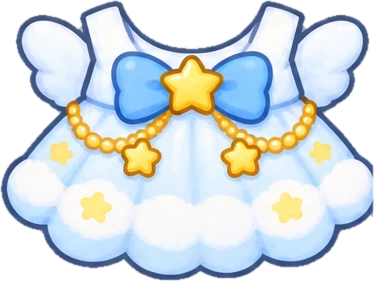
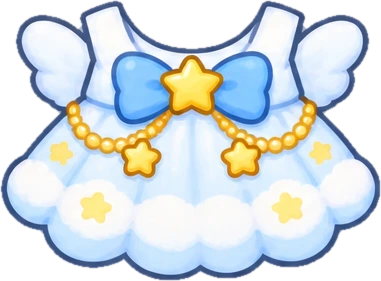
Recut angel dress (right edge was cropped)
Claude-Session: https://claude.ai/code/session_01R3m8MAFkhgnU4D5f6BKp5W

diff --git a/index.html b/index.html
@@ -752,7 +752,7 @@ var FOODS = {
 var SHOP = [];
 /* 이미지로 만든 아이템: {id,name,slot,tier,cost,file:'assets/items/id.webp',box:[x,y,w,h]} 를 여기에 추가하면
    뽑기·꾸미기·도감에 자동으로 들어가요. box는 캔버스(640x520) 좌표, vb는 box 와 같아요. */
-var IMG_ITEMS = [{"id": "ribbon", "name": "빨간 리본", "slot": "side", "tier": 0, "cost": 8, "file": "assets/items/ribbon.webp", "box": [374.5, 56.1, 125, 71.7]}, {"id": "flower", "name": "꽃 핀", "slot": "side", "tier": 0, "cost": 12, "file": "assets/items/flower.webp", "box": [152.5, 43.1, 105, 97.7]}, {"id": "sprout", "name": "새싹 핀", "slot": "side", "tier": 0, "cost": 8, "file": "assets/items/sprout.webp", "box": [382.0, 53.3, 110, 77.5]}, {"id": "heart", "name": "하트 핀", "slot": "side", "tier": 0, "cost": 10, "file": "assets/items/heart.webp", "box": [383.0, 46.8, 108, 90.4]}, {"id": "star", "name": "별 핀", "slot": "side", "tier": 0, "cost": 10, "file": "assets/items/star.webp", "box": [383.0, 37.5, 108, 108.9]}, {"id": "cloudbow", "name": "구름 무지개 핀", "slot": "side", "tier": 0, "cost": 12, "file": "assets/items/cloudbow.webp", "box": [377.0, 51.8, 120, 80.5]}, {"id": "cherry", "name": "체리 핀", "slot": "side", "tier": 0, "cost": 12, "file": "assets/items/cherry.webp", "box": [387.0, 42.4, 100, 99.2]}, {"id": "glasses", "name": "동그란 안경", "slot": "face", "tier": 1, "cost": 15, "file": "assets/items/glasses.webp", "box": [143.5, 166.3, 355, 147.4]}, {"id": "scarf", "name": "따뜻한 목도리", "slot": "neck", "tier": 1, "cost": 20, "file": "assets/items/scarf.webp", "box": [179.5, 318.9, 285, 178.3]}, {"id": "hat", "name": "파티 모자", "slot": "head", "tier": 1, "cost": 25, "file": "assets/items/hat.webp", "box": [250.0, -80.1, 140, 168.1]}, {"id": "wingpin", "name": "날개 핀", "slot": "side", "tier": 1, "cost": 18, "file": "assets/items/wingpin.webp", "box": [379.5, 46.4, 115, 91.1]}, {"id": "purplebow", "name": "보라 리본 핀", "slot": "side", "tier": 1, "cost": 15, "file": "assets/items/purplebow.webp", "box": [377.0, 50.1, 120, 83.8]}, {"id": "lacebow", "name": "레이스 리본 핀", "slot": "side", "tier": 1, "cost": 18, "file": "assets/items/lacebow.webp", "box": [379.5, 38.0, 115, 108.1]}, {"id": "snow", "name": "눈꽃 핀", "slot": "side", "tier": 1, "cost": 20, "file": "assets/items/snow.webp", "box": [387.0, 48.3, 100, 87.4]}, {"id": "moon", "name": "달별 핀", "slot": "side", "tier": 1, "cost": 22, "file": "assets/items/moon.webp", "box": [382.0, 39.7, 110, 104.6]}, {"id": "crown", "name": "반짝 왕관", "slot": "head", "tier": 2, "cost": 0, "file": "assets/items/crown.webp", "box": [230.0, -37.8, 180, 127.8]}, {"id": "wizard", "name": "별 마법사 모자", "slot": "head", "tier": 2, "cost": 0, "file": "assets/items/wizard.webp", "box": [177.0, -77.3, 290, 189.3]}, {"id": "starwing", "name": "별무지개 날개 머리띠", "slot": "head", "tier": 2, "cost": 0, "file": "assets/items/starwing.webp", "box": [165.0, 28.9, 310, 134.2]}, {"id": "nightcap", "name": "꿀잠 모자", "slot": "head", "tier": 2, "cost": 0, "file": "assets/items/nightcap.webp", "box": [192.0, 9.8, 260, 180.4]}, {"id": "maid", "name": "프릴 리본 머리띠", "slot": "head", "tier": 2, "cost": 0, "file": "assets/items/maid.webp", "box": [190.0, 19.6, 260, 156.9]}, {"id": "angel", "name": "천사 날개 후광", "slot": "head", "tier": 3, "cost": 0, "file": "assets/items/angel.webp", "box": [150.0, 6.4, 340, 177.1]}, {"id": "bat", "name": "박쥐 날개", "slot": "head", "tier": 3, "cost": 0, "file": "assets/items/bat.webp", "box": [165.0, 48.5, 310, 127.1]}, {"id": "wreath", "name": "꽃 화관", "slot": "head", "tier": 3, "cost": 0, "file": "assets/items/wreath.webp", "box": [180.0, 19.0, 280, 162.0]}, {"id": "tiara", "name": "날개 티아라", "slot": "head", "tier": 3, "cost": 0, "file": "assets/items/tiara.webp", "box": [195.0, 18.6, 250, 146.9]}, {"id": "galaxy", "name": "은하수 머리띠", "slot": "head", "tier": 3, "cost": 0, "file": "assets/items/galaxy.webp", "box": [160.0, 23.2, 320, 161.5]}, {"id": "broom", "name": "빗자루", "slot": "hand", "tier": 0, "cost": 14, "file": "assets/items/broom.webp", "box": [401.6, 283, 100.8, 230]}, {"id": "drink", "name": "음료수", "slot": "hand", "tier": 0, "cost": 10, "file": "assets/items/drink.webp", "box": [136.2, 332, 97.6, 162]}, {"id": "schoolbag", "name": "학교가방", "slot": "hand", "tier": 0, "cost": 16, "file": "assets/items/schoolbag.webp", "box": [383.0, 392, 133.0, 140]}, {"id": "slime", "name": "슬라임", "slot": "hand", "tier": 1, "cost": 18, "file": "assets/items/slime.webp", "box": [108.0, 331.1, 154, 116.8]}, {"id": "gameboy", "name": "휴대용 게임기", "slot": "hand", "tier": 1, "cost": 24, "file": "assets/items/gameboy.webp", "box": [222.0, 359.4, 195, 109.1]}, {"id": "bananadoll", "name": "바나나 애착인형", "slot": "hand", "tier": 2, "cost": 0, "file": "assets/items/bananadoll.webp", "box": [105.0, 303.6, 150, 176.4]}, {"id": "elephantdoll", "name": "코끼리 애착인형", "slot": "hand", "tier": 2, "cost": 0, "file": "assets/items/elephantdoll.webp", "box": [385.0, 321.0, 160, 148.7]}, {"id": "tshirt", "name": "줄무늬 티셔츠", "slot": "outfit", "tier": 0, "cost": 14, "file": "assets/items/tshirt.webp", "box": [200.0, 328, 240, 131.0]}, {"id": "overalls", "name": "멜빵바지", "slot": "outfit", "tier": 0, "cost": 16, "file": "assets/items/overalls.webp", "box": [200.0, 328, 240, 177.4]}, {"id": "dress", "name": "분홍 원피스", "slot": "outfit", "tier": 1, "cost": 26, "file": "assets/items/dress.webp", "box": [200.0, 328, 240, 131.7]}, {"id": "hanbok", "name": "한복", "slot": "outfit", "tier": 1, "cost": 30, "file": "assets/items/hanbok.webp", "box": [200.0, 328, 240, 139.9]}, {"id": "uniform", "name": "세일러 교복", "slot": "outfit", "tier": 1, "cost": 28, "file": "assets/items/uniform.webp", "box": [200.0, 328, 240, 146.9]}, {"id": "cape", "name": "별빛 마법 망토", "slot": "outfit", "tier": 2, "cost": 0, "file": "assets/items/cape.webp", "box": [200.0, 365, 240, 138.0]}, {"id": "princess", "name": "공주 드레스", "slot": "outfit", "tier": 2, "cost": 0, "file": "assets/items/princess.webp", "box": [200.0, 328, 240, 157.7]}, {"id": "spacesuit", "name": "우주복", "slot": "outfit", "tier": 3, "cost": 0, "file": "assets/items/spacesuit.webp", "box": [200.0, 328, 240, 121.6]}, {"id": "heartphones", "name": "하트 헤드폰", "slot": "head", "tier": 1, "cost": 22, "file": "assets/items/heartphones.webp", "box": [82, -12, 476, 273.0]}, {"id": "nursehat", "name": "간호사 모자", "slot": "head", "tier": 0, "cost": 14, "file": "assets/items/nursehat.webp", "box": [215, 14, 210, 102.6]}, {"id": "nursedress", "name": "간호사복", "slot": "outfit", "tier": 1, "cost": 28, "file": "assets/items/nursedress.webp", "box": [180.0, 318, 280, 206.6]}, {"id": "pancake", "name": "팬케이크", "slot": "hand", "tier": 1, "cost": 18, "file": "assets/items/pancake.webp", "box": [110, 335, 150, 121.7]}, {"id": "chocochip", "name": "초코칩", "slot": "hand", "tier": 0, "cost": 12, "file": "assets/items/chocochip.webp", "box": [130, 340, 100, 101.5]}, {"id": "elephantwings", "name": "코끼리 날개", "slot": "back", "tier": 1, "cost": 32, "file": "assets/items/elephantwings.webp", "box": [-30.0, 205, 700, 321.4]}, {"id": "angelwings", "name": "천사 날개", "slot": "back", "tier": 1, "cost": 34, "file": "assets/items/angelwings.webp", "box": [-30.0, 205, 700, 269.5]}, {"id": "demonwings", "name": "악마 날개", "slot": "back", "tier": 1, "cost": 34, "file": "assets/items/demonwings.webp", "box": [-30.0, 205, 700, 300.2]}, {"id": "rainbowwings", "name": "무지개 날개", "slot": "back", "tier": 2, "cost": 0, "file": "assets/items/rainbowwings.webp", "box": [-30.0, 205, 700, 312.6]}, {"id": "butterflywings", "name": "나비 날개", "slot": "back", "tier": 0, "cost": 24, "file": "assets/items/butterflywings.webp", "box": [-30.0, 205, 700, 313.3]}, {"id": "fairywings", "name": "요정 날개", "slot": "back", "tier": 1, "cost": 30, "file": "assets/items/fairywings.webp", "box": [-30.0, 205, 700, 358.8]}, {"id": "crystalwings", "name": "크리스탈 날개", "slot": "back", "tier": 2, "cost": 0, "file": "assets/items/crystalwings.webp", "box": [-30.0, 205, 700, 354.4]}, {"id": "starwings", "name": "별빛 날개", "slot": "back", "tier": 2, "cost": 0, "file": "assets/items/starwings.webp", "box": [-30.0, 205, 700, 348.6]}, {"id": "naturewings", "name": "자연 날개", "slot": "back", "tier": 1, "cost": 30, "file": "assets/items/naturewings.webp", "box": [-30.0, 205, 700, 350.8]}, {"id": "nheart", "name": "하트 멜빵 반바지", "slot": "outfit", "tier": 0, "cost": 16, "file": "assets/items/nheart.webp", "box": [180.0, 318, 280, 210.6]}, {"id": "nribbon", "name": "분홍 리본 원피스", "slot": "outfit", "tier": 1, "cost": 26, "file": "assets/items/nribbon.webp", "box": [180.0, 318, 280, 192.7]}, {"id": "ndaisy", "name": "노랑 데이지 원피스", "slot": "outfit", "tier": 1, "cost": 28, "file": "assets/items/ndaisy.webp", "box": [180.0, 318, 280, 200.4]}, {"id": "nstrawb", "name": "딸기 레이스 원피스", "slot": "outfit", "tier": 1, "cost": 28, "file": "assets/items/nstrawb.webp", "box": [180.0, 318, 280, 188.6]}, {"id": "nsailor", "name": "곰돌이 세일러복", "slot": "outfit", "tier": 0, "cost": 18, "file": "assets/items/nsailor.webp", "box": [180.0, 318, 280, 205.2]}, {"id": "nbeartan", "name": "갈색 리본 곰돌이옷", "slot": "outfit", "tier": 1, "cost": 26, "file": "assets/items/nbeartan.webp", "box": [180.0, 318, 280, 209.0]}, {"id": "nrose", "name": "장미 꽃무늬 원피스", "slot": "outfit", "tier": 1, "cost": 26, "file": "assets/items/nrose.webp", "box": [180.0, 318, 280, 195.0]}, {"id": "nbearblue", "name": "곰돌이 파랑 멜빵", "slot": "outfit", "tier": 0, "cost": 18, "file": "assets/items/nbearblue.webp", "box": [180.0, 318, 280, 209.6]}, {"id": "nstar", "name": "별빛 망토", "slot": "outfit", "tier": 2, "cost": 0, "file": "assets/items/nstar.webp", "box": [180.0, 318, 280, 204.7]}, {"id": "nsnow", "name": "눈꽃 망토", "slot": "outfit", "tier": 2, "cost": 0, "file": "assets/items/nsnow.webp", "box": [180.0, 318, 280, 193.8]}, {"id": "nprince", "name": "왕자님 정복", "slot": "outfit", "tier": 2, "cost": 0, "file": "assets/items/nprince.webp", "box": [180.0, 318, 280, 211.5]}, {"id": "nbat", "name": "박쥐 망토", "slot": "outfit", "tier": 3, "cost": 0, "file": "assets/items/nbat.webp", "box": [180.0, 318, 280, 207.8]}, {"id": "mpink", "name": "핑크 하트 멜빵", "slot": "outfit", "tier": 0, "cost": 16, "file": "assets/items/mpink.webp", "box": [180.0, 318, 280, 226.8]}, {"id": "myellow", "name": "노랑 데이지 리본 원피스", "slot": "outfit", "tier": 1, "cost": 26, "file": "assets/items/myellow.webp", "box": [180.0, 318, 280, 197.4]}, {"id": "manchor", "name": "닻 세일러 원피스", "slot": "outfit", "tier": 0, "cost": 18, "file": "assets/items/manchor.webp", "box": [180.0, 318, 280, 206.7]}, {"id": "mstrawchk", "name": "딸기 체크 원피스", "slot": "outfit", "tier": 1, "cost": 28, "file": "assets/items/mstrawchk.webp", "box": [180.0, 318, 280, 196.1]}, {"id": "mdenim", "name": "별 청멜빵 반바지", "slot": "outfit", "tier": 0, "cost": 16, "file": "assets/items/mdenim.webp", "box": [180.0, 318, 280, 213.6]}, {"id": "mlavender", "name": "라벤더 프릴 원피스", "slot": "outfit", "tier": 1, "cost": 28, "file": "assets/items/mlavender.webp", "box": [180.0, 318, 280, 197.1]}, {"id": "mbearcream", "name": "곰돌이 크림 멜빵", "slot": "outfit", "tier": 1, "cost": 26, "file": "assets/items/mbearcream.webp", "box": [180.0, 318, 280, 215.8]}, {"id": "mmint", "name": "민트 클로버 원피스", "slot": "outfit", "tier": 1, "cost": 26, "file": "assets/items/mmint.webp", "box": [180.0, 318, 280, 202.9]}, {"id": "mcloud", "name": "구름 리본 원피스", "slot": "outfit", "tier": 1, "cost": 26, "file": "assets/items/mcloud.webp", "box": [180.0, 318, 280, 205.4]}, {"id": "mbee", "name": "꿀벌 멜빵", "slot": "outfit", "tier": 2, "cost": 0, "file": "assets/items/mbee.webp", "box": [180.0, 318, 280, 232.5]}, {"id": "mpearl", "name": "진주 하트 원피스", "slot": "outfit", "tier": 2, "cost": 0, "file": "assets/items/mpearl.webp", "box": [160.0, 318, 280, 214.0]}, {"id": "mnavy", "name": "달별 네이비 정복", "slot": "outfit", "tier": 3, "cost": 0, "file": "assets/items/mnavy.webp", "box": [180.0, 318, 280, 211.5]}, {"id": "psakura", "name": "벚꽃 원피스", "slot": "outfit", "tier": 1, "cost": 26, "file": "assets/items/psakura.webp", "box": [180.0, 328, 280, 217.5]}, {"id": "palice", "name": "앨리스 원피스", "slot": "outfit", "tier": 2, "cost": 0, "file": "assets/items/palice.webp", "box": [180.0, 328, 280, 222.2]}, {"id": "ppicnic", "name": "체크 피크닉 원피스", "slot": "outfit", "tier": 1, "cost": 28, "file": "assets/items/ppicnic.webp", "box": [180.0, 328, 280, 222.3]}, {"id": "pballet", "name": "발레코어 원피스", "slot": "outfit", "tier": 1, "cost": 28, "file": "assets/items/pballet.webp", "box": [180.0, 328, 280, 206.8]}, {"id": "pangel", "name": "천사 원피스", "slot": "outfit", "tier": 2, "cost": 0, "file": "assets/items/pangel.webp", "box": [180.0, 328, 280, 210.4]}, {"id": "pwedding", "name": "웨딩 드레스", "slot": "outfit", "tier": 3, "cost": 0, "file": "assets/items/pwedding.webp", "box": [180.0, 328, 280, 215.6]}, {"id": "pbee", "name": "꿀벌 원피스", "slot": "outfit", "tier": 1, "cost": 26, "file": "assets/items/pbee.webp", "box": [180.0, 328, 280, 236.0]}, {"id": "pfrog", "name": "개구리 멜빵", "slot": "outfit", "tier": 0, "cost": 18, "file": "assets/items/pfrog.webp", "box": [180.0, 328, 280, 214.2]}, {"id": "pcherry", "name": "체리 원피스", "slot": "outfit", "tier": 1, "cost": 28, "file": "assets/items/pcherry.webp", "box": [180.0, 328, 280, 228.3]}, {"id": "pcloudstar", "name": "구름별 원피스", "slot": "outfit", "tier": 2, "cost": 0, "file": "assets/items/pcloudstar.webp", "box": [180.0, 328, 280, 234.1]}, {"id": "pgoth", "name": "고딕 로리타", "slot": "outfit", "tier": 2, "cost": 0, "file": "assets/items/pgoth.webp", "box": [180.0, 328, 280, 230.8]}, {"id": "pxmas", "name": "크리스마스 원피스", "slot": "outfit", "tier": 3, "cost": 0, "file": "assets/items/pxmas.webp", "box": [180.0, 328, 280, 219.7]}, {"id": "kblackdress", "name": "검정 칼라 원피스", "slot": "outfit", "tier": 1, "cost": 26, "file": "assets/items/kblackdress.webp", "box": [160.0, 318, 280, 160.0]}, {"id": "kplaid", "name": "회색 체크 원피스", "slot": "outfit", "tier": 1, "cost": 28, "file": "assets/items/kplaid.webp", "box": [160.0, 318, 280, 171.7]}, {"id": "kapple", "name": "사과 빨강 원피스", "slot": "outfit", "tier": 1, "cost": 28, "file": "assets/items/kapple.webp", "box": [160.0, 318, 280, 173.8]}, {"id": "kwhite", "name": "흰 레이스 원피스", "slot": "outfit", "tier": 1, "cost": 26, "file": "assets/items/kwhite.webp", "box": [160.0, 318, 280, 177.1]}, {"id": "kgreen", "name": "그린 멜빵 원피스", "slot": "outfit", "tier": 1, "cost": 26, "file": "assets/items/kgreen.webp", "box": [160.0, 318, 280, 178.8]}, {"id": "kberet", "name": "빨간 베레모", "slot": "head", "tier": 1, "cost": 24, "file": "assets/items/kberet.webp", "box": [215, 8, 180, 103.0]}, {"id": "kblackbow", "name": "검정 리본", "slot": "head", "tier": 0, "cost": 12, "file": "assets/items/kblackbow.webp", "box": [335, 18, 95, 68.1]}, {"id": "kwhitebow", "name": "흰 리본", "slot": "head", "tier": 0, "cost": 12, "file": "assets/items/kwhitebow.webp", "box": [335, 18, 95, 68.1]}, {"id": "kpolice", "name": "경찰복", "slot": "outfit", "tier": 1, "cost": 28, "file": "assets/items/kpolice.webp", "box": [160.0, 318, 280, 211.4]}, {"id": "kpolicehat", "name": "경찰모", "slot": "head", "tier": 1, "cost": 26, "file": "assets/items/kpolicehat.webp", "box": [240.0, 19.6, 160, 95.4]}];
+var IMG_ITEMS = [{"id": "ribbon", "name": "빨간 리본", "slot": "side", "tier": 0, "cost": 8, "file": "assets/items/ribbon.webp", "box": [374.5, 56.1, 125, 71.7]}, {"id": "flower", "name": "꽃 핀", "slot": "side", "tier": 0, "cost": 12, "file": "assets/items/flower.webp", "box": [152.5, 43.1, 105, 97.7]}, {"id": "sprout", "name": "새싹 핀", "slot": "side", "tier": 0, "cost": 8, "file": "assets/items/sprout.webp", "box": [382.0, 53.3, 110, 77.5]}, {"id": "heart", "name": "하트 핀", "slot": "side", "tier": 0, "cost": 10, "file": "assets/items/heart.webp", "box": [383.0, 46.8, 108, 90.4]}, {"id": "star", "name": "별 핀", "slot": "side", "tier": 0, "cost": 10, "file": "assets/items/star.webp", "box": [383.0, 37.5, 108, 108.9]}, {"id": "cloudbow", "name": "구름 무지개 핀", "slot": "side", "tier": 0, "cost": 12, "file": "assets/items/cloudbow.webp", "box": [377.0, 51.8, 120, 80.5]}, {"id": "cherry", "name": "체리 핀", "slot": "side", "tier": 0, "cost": 12, "file": "assets/items/cherry.webp", "box": [387.0, 42.4, 100, 99.2]}, {"id": "glasses", "name": "동그란 안경", "slot": "face", "tier": 1, "cost": 15, "file": "assets/items/glasses.webp", "box": [143.5, 166.3, 355, 147.4]}, {"id": "scarf", "name": "따뜻한 목도리", "slot": "neck", "tier": 1, "cost": 20, "file": "assets/items/scarf.webp", "box": [179.5, 318.9, 285, 178.3]}, {"id": "hat", "name": "파티 모자", "slot": "head", "tier": 1, "cost": 25, "file": "assets/items/hat.webp", "box": [250.0, -80.1, 140, 168.1]}, {"id": "wingpin", "name": "날개 핀", "slot": "side", "tier": 1, "cost": 18, "file": "assets/items/wingpin.webp", "box": [379.5, 46.4, 115, 91.1]}, {"id": "purplebow", "name": "보라 리본 핀", "slot": "side", "tier": 1, "cost": 15, "file": "assets/items/purplebow.webp", "box": [377.0, 50.1, 120, 83.8]}, {"id": "lacebow", "name": "레이스 리본 핀", "slot": "side", "tier": 1, "cost": 18, "file": "assets/items/lacebow.webp", "box": [379.5, 38.0, 115, 108.1]}, {"id": "snow", "name": "눈꽃 핀", "slot": "side", "tier": 1, "cost": 20, "file": "assets/items/snow.webp", "box": [387.0, 48.3, 100, 87.4]}, {"id": "moon", "name": "달별 핀", "slot": "side", "tier": 1, "cost": 22, "file": "assets/items/moon.webp", "box": [382.0, 39.7, 110, 104.6]}, {"id": "crown", "name": "반짝 왕관", "slot": "head", "tier": 2, "cost": 0, "file": "assets/items/crown.webp", "box": [230.0, -37.8, 180, 127.8]}, {"id": "wizard", "name": "별 마법사 모자", "slot": "head", "tier": 2, "cost": 0, "file": "assets/items/wizard.webp", "box": [177.0, -77.3, 290, 189.3]}, {"id": "starwing", "name": "별무지개 날개 머리띠", "slot": "head", "tier": 2, "cost": 0, "file": "assets/items/starwing.webp", "box": [165.0, 28.9, 310, 134.2]}, {"id": "nightcap", "name": "꿀잠 모자", "slot": "head", "tier": 2, "cost": 0, "file": "assets/items/nightcap.webp", "box": [192.0, 9.8, 260, 180.4]}, {"id": "maid", "name": "프릴 리본 머리띠", "slot": "head", "tier": 2, "cost": 0, "file": "assets/items/maid.webp", "box": [190.0, 19.6, 260, 156.9]}, {"id": "angel", "name": "천사 날개 후광", "slot": "head", "tier": 3, "cost": 0, "file": "assets/items/angel.webp", "box": [150.0, 6.4, 340, 177.1]}, {"id": "bat", "name": "박쥐 날개", "slot": "head", "tier": 3, "cost": 0, "file": "assets/items/bat.webp", "box": [165.0, 48.5, 310, 127.1]}, {"id": "wreath", "name": "꽃 화관", "slot": "head", "tier": 3, "cost": 0, "file": "assets/items/wreath.webp", "box": [180.0, 19.0, 280, 162.0]}, {"id": "tiara", "name": "날개 티아라", "slot": "head", "tier": 3, "cost": 0, "file": "assets/items/tiara.webp", "box": [195.0, 18.6, 250, 146.9]}, {"id": "galaxy", "name": "은하수 머리띠", "slot": "head", "tier": 3, "cost": 0, "file": "assets/items/galaxy.webp", "box": [160.0, 23.2, 320, 161.5]}, {"id": "broom", "name": "빗자루", "slot": "hand", "tier": 0, "cost": 14, "file": "assets/items/broom.webp", "box": [401.6, 283, 100.8, 230]}, {"id": "drink", "name": "음료수", "slot": "hand", "tier": 0, "cost": 10, "file": "assets/items/drink.webp", "box": [136.2, 332, 97.6, 162]}, {"id": "schoolbag", "name": "학교가방", "slot": "hand", "tier": 0, "cost": 16, "file": "assets/items/schoolbag.webp", "box": [383.0, 392, 133.0, 140]}, {"id": "slime", "name": "슬라임", "slot": "hand", "tier": 1, "cost": 18, "file": "assets/items/slime.webp", "box": [108.0, 331.1, 154, 116.8]}, {"id": "gameboy", "name": "휴대용 게임기", "slot": "hand", "tier": 1, "cost": 24, "file": "assets/items/gameboy.webp", "box": [222.0, 359.4, 195, 109.1]}, {"id": "bananadoll", "name": "바나나 애착인형", "slot": "hand", "tier": 2, "cost": 0, "file": "assets/items/bananadoll.webp", "box": [105.0, 303.6, 150, 176.4]}, {"id": "elephantdoll", "name": "코끼리 애착인형", "slot": "hand", "tier": 2, "cost": 0, "file": "assets/items/elephantdoll.webp", "box": [385.0, 321.0, 160, 148.7]}, {"id": "tshirt", "name": "줄무늬 티셔츠", "slot": "outfit", "tier": 0, "cost": 14, "file": "assets/items/tshirt.webp", "box": [200.0, 328, 240, 131.0]}, {"id": "overalls", "name": "멜빵바지", "slot": "outfit", "tier": 0, "cost": 16, "file": "assets/items/overalls.webp", "box": [200.0, 328, 240, 177.4]}, {"id": "dress", "name": "분홍 원피스", "slot": "outfit", "tier": 1, "cost": 26, "file": "assets/items/dress.webp", "box": [200.0, 328, 240, 131.7]}, {"id": "hanbok", "name": "한복", "slot": "outfit", "tier": 1, "cost": 30, "file": "assets/items/hanbok.webp", "box": [200.0, 328, 240, 139.9]}, {"id": "uniform", "name": "세일러 교복", "slot": "outfit", "tier": 1, "cost": 28, "file": "assets/items/uniform.webp", "box": [200.0, 328, 240, 146.9]}, {"id": "cape", "name": "별빛 마법 망토", "slot": "outfit", "tier": 2, "cost": 0, "file": "assets/items/cape.webp", "box": [200.0, 365, 240, 138.0]}, {"id": "princess", "name": "공주 드레스", "slot": "outfit", "tier": 2, "cost": 0, "file": "assets/items/princess.webp", "box": [200.0, 328, 240, 157.7]}, {"id": "spacesuit", "name": "우주복", "slot": "outfit", "tier": 3, "cost": 0, "file": "assets/items/spacesuit.webp", "box": [200.0, 328, 240, 121.6]}, {"id": "heartphones", "name": "하트 헤드폰", "slot": "head", "tier": 1, "cost": 22, "file": "assets/items/heartphones.webp", "box": [82, -12, 476, 273.0]}, {"id": "nursehat", "name": "간호사 모자", "slot": "head", "tier": 0, "cost": 14, "file": "assets/items/nursehat.webp", "box": [215, 14, 210, 102.6]}, {"id": "nursedress", "name": "간호사복", "slot": "outfit", "tier": 1, "cost": 28, "file": "assets/items/nursedress.webp", "box": [180.0, 318, 280, 206.6]}, {"id": "pancake", "name": "팬케이크", "slot": "hand", "tier": 1, "cost": 18, "file": "assets/items/pancake.webp", "box": [110, 335, 150, 121.7]}, {"id": "chocochip", "name": "초코칩", "slot": "hand", "tier": 0, "cost": 12, "file": "assets/items/chocochip.webp", "box": [130, 340, 100, 101.5]}, {"id": "elephantwings", "name": "코끼리 날개", "slot": "back", "tier": 1, "cost": 32, "file": "assets/items/elephantwings.webp", "box": [-30.0, 205, 700, 321.4]}, {"id": "angelwings", "name": "천사 날개", "slot": "back", "tier": 1, "cost": 34, "file": "assets/items/angelwings.webp", "box": [-30.0, 205, 700, 269.5]}, {"id": "demonwings", "name": "악마 날개", "slot": "back", "tier": 1, "cost": 34, "file": "assets/items/demonwings.webp", "box": [-30.0, 205, 700, 300.2]}, {"id": "rainbowwings", "name": "무지개 날개", "slot": "back", "tier": 2, "cost": 0, "file": "assets/items/rainbowwings.webp", "box": [-30.0, 205, 700, 312.6]}, {"id": "butterflywings", "name": "나비 날개", "slot": "back", "tier": 0, "cost": 24, "file": "assets/items/butterflywings.webp", "box": [-30.0, 205, 700, 313.3]}, {"id": "fairywings", "name": "요정 날개", "slot": "back", "tier": 1, "cost": 30, "file": "assets/items/fairywings.webp", "box": [-30.0, 205, 700, 358.8]}, {"id": "crystalwings", "name": "크리스탈 날개", "slot": "back", "tier": 2, "cost": 0, "file": "assets/items/crystalwings.webp", "box": [-30.0, 205, 700, 354.4]}, {"id": "starwings", "name": "별빛 날개", "slot": "back", "tier": 2, "cost": 0, "file": "assets/items/starwings.webp", "box": [-30.0, 205, 700, 348.6]}, {"id": "naturewings", "name": "자연 날개", "slot": "back", "tier": 1, "cost": 30, "file": "assets/items/naturewings.webp", "box": [-30.0, 205, 700, 350.8]}, {"id": "nheart", "name": "하트 멜빵 반바지", "slot": "outfit", "tier": 0, "cost": 16, "file": "assets/items/nheart.webp", "box": [180.0, 318, 280, 210.6]}, {"id": "nribbon", "name": "분홍 리본 원피스", "slot": "outfit", "tier": 1, "cost": 26, "file": "assets/items/nribbon.webp", "box": [180.0, 318, 280, 192.7]}, {"id": "ndaisy", "name": "노랑 데이지 원피스", "slot": "outfit", "tier": 1, "cost": 28, "file": "assets/items/ndaisy.webp", "box": [180.0, 318, 280, 200.4]}, {"id": "nstrawb", "name": "딸기 레이스 원피스", "slot": "outfit", "tier": 1, "cost": 28, "file": "assets/items/nstrawb.webp", "box": [180.0, 318, 280, 188.6]}, {"id": "nsailor", "name": "곰돌이 세일러복", "slot": "outfit", "tier": 0, "cost": 18, "file": "assets/items/nsailor.webp", "box": [180.0, 318, 280, 205.2]}, {"id": "nbeartan", "name": "갈색 리본 곰돌이옷", "slot": "outfit", "tier": 1, "cost": 26, "file": "assets/items/nbeartan.webp", "box": [180.0, 318, 280, 209.0]}, {"id": "nrose", "name": "장미 꽃무늬 원피스", "slot": "outfit", "tier": 1, "cost": 26, "file": "assets/items/nrose.webp", "box": [180.0, 318, 280, 195.0]}, {"id": "nbearblue", "name": "곰돌이 파랑 멜빵", "slot": "outfit", "tier": 0, "cost": 18, "file": "assets/items/nbearblue.webp", "box": [180.0, 318, 280, 209.6]}, {"id": "nstar", "name": "별빛 망토", "slot": "outfit", "tier": 2, "cost": 0, "file": "assets/items/nstar.webp", "box": [180.0, 318, 280, 204.7]}, {"id": "nsnow", "name": "눈꽃 망토", "slot": "outfit", "tier": 2, "cost": 0, "file": "assets/items/nsnow.webp", "box": [180.0, 318, 280, 193.8]}, {"id": "nprince", "name": "왕자님 정복", "slot": "outfit", "tier": 2, "cost": 0, "file": "assets/items/nprince.webp", "box": [180.0, 318, 280, 211.5]}, {"id": "nbat", "name": "박쥐 망토", "slot": "outfit", "tier": 3, "cost": 0, "file": "assets/items/nbat.webp", "box": [180.0, 318, 280, 207.8]}, {"id": "mpink", "name": "핑크 하트 멜빵", "slot": "outfit", "tier": 0, "cost": 16, "file": "assets/items/mpink.webp", "box": [180.0, 318, 280, 226.8]}, {"id": "myellow", "name": "노랑 데이지 리본 원피스", "slot": "outfit", "tier": 1, "cost": 26, "file": "assets/items/myellow.webp", "box": [180.0, 318, 280, 197.4]}, {"id": "manchor", "name": "닻 세일러 원피스", "slot": "outfit", "tier": 0, "cost": 18, "file": "assets/items/manchor.webp", "box": [180.0, 318, 280, 206.7]}, {"id": "mstrawchk", "name": "딸기 체크 원피스", "slot": "outfit", "tier": 1, "cost": 28, "file": "assets/items/mstrawchk.webp", "box": [180.0, 318, 280, 196.1]}, {"id": "mdenim", "name": "별 청멜빵 반바지", "slot": "outfit", "tier": 0, "cost": 16, "file": "assets/items/mdenim.webp", "box": [180.0, 318, 280, 213.6]}, {"id": "mlavender", "name": "라벤더 프릴 원피스", "slot": "outfit", "tier": 1, "cost": 28, "file": "assets/items/mlavender.webp", "box": [180.0, 318, 280, 197.1]}, {"id": "mbearcream", "name": "곰돌이 크림 멜빵", "slot": "outfit", "tier": 1, "cost": 26, "file": "assets/items/mbearcream.webp", "box": [180.0, 318, 280, 215.8]}, {"id": "mmint", "name": "민트 클로버 원피스", "slot": "outfit", "tier": 1, "cost": 26, "file": "assets/items/mmint.webp", "box": [180.0, 318, 280, 202.9]}, {"id": "mcloud", "name": "구름 리본 원피스", "slot": "outfit", "tier": 1, "cost": 26, "file": "assets/items/mcloud.webp", "box": [180.0, 318, 280, 205.4]}, {"id": "mbee", "name": "꿀벌 멜빵", "slot": "outfit", "tier": 2, "cost": 0, "file": "assets/items/mbee.webp", "box": [180.0, 318, 280, 232.5]}, {"id": "mpearl", "name": "진주 하트 원피스", "slot": "outfit", "tier": 2, "cost": 0, "file": "assets/items/mpearl.webp", "box": [160.0, 318, 280, 214.0]}, {"id": "mnavy", "name": "달별 네이비 정복", "slot": "outfit", "tier": 3, "cost": 0, "file": "assets/items/mnavy.webp", "box": [180.0, 318, 280, 211.5]}, {"id": "psakura", "name": "벚꽃 원피스", "slot": "outfit", "tier": 1, "cost": 26, "file": "assets/items/psakura.webp", "box": [180.0, 328, 280, 217.5]}, {"id": "palice", "name": "앨리스 원피스", "slot": "outfit", "tier": 2, "cost": 0, "file": "assets/items/palice.webp", "box": [180.0, 328, 280, 222.2]}, {"id": "ppicnic", "name": "체크 피크닉 원피스", "slot": "outfit", "tier": 1, "cost": 28, "file": "assets/items/ppicnic.webp", "box": [180.0, 328, 280, 222.3]}, {"id": "pballet", "name": "발레코어 원피스", "slot": "outfit", "tier": 1, "cost": 28, "file": "assets/items/pballet.webp", "box": [180.0, 328, 280, 206.8]}, {"id": "pangel", "name": "천사 원피스", "slot": "outfit", "tier": 2, "cost": 0, "file": "assets/items/pangel.webp", "box": [160.0, 328, 280, 206.5]}, {"id": "pwedding", "name": "웨딩 드레스", "slot": "outfit", "tier": 3, "cost": 0, "file": "assets/items/pwedding.webp", "box": [180.0, 328, 280, 215.6]}, {"id": "pbee", "name": "꿀벌 원피스", "slot": "outfit", "tier": 1, "cost": 26, "file": "assets/items/pbee.webp", "box": [180.0, 328, 280, 236.0]}, {"id": "pfrog", "name": "개구리 멜빵", "slot": "outfit", "tier": 0, "cost": 18, "file": "assets/items/pfrog.webp", "box": [180.0, 328, 280, 214.2]}, {"id": "pcherry", "name": "체리 원피스", "slot": "outfit", "tier": 1, "cost": 28, "file": "assets/items/pcherry.webp", "box": [180.0, 328, 280, 228.3]}, {"id": "pcloudstar", "name": "구름별 원피스", "slot": "outfit", "tier": 2, "cost": 0, "file": "assets/items/pcloudstar.webp", "box": [180.0, 328, 280, 234.1]}, {"id": "pgoth", "name": "고딕 로리타", "slot": "outfit", "tier": 2, "cost": 0, "file": "assets/items/pgoth.webp", "box": [180.0, 328, 280, 230.8]}, {"id": "pxmas", "name": "크리스마스 원피스", "slot": "outfit", "tier": 3, "cost": 0, "file": "assets/items/pxmas.webp", "box": [180.0, 328, 280, 219.7]}, {"id": "kblackdress", "name": "검정 칼라 원피스", "slot": "outfit", "tier": 1, "cost": 26, "file": "assets/items/kblackdress.webp", "box": [160.0, 318, 280, 160.0]}, {"id": "kplaid", "name": "회색 체크 원피스", "slot": "outfit", "tier": 1, "cost": 28, "file": "assets/items/kplaid.webp", "box": [160.0, 318, 280, 171.7]}, {"id": "kapple", "name": "사과 빨강 원피스", "slot": "outfit", "tier": 1, "cost": 28, "file": "assets/items/kapple.webp", "box": [160.0, 318, 280, 173.8]}, {"id": "kwhite", "name": "흰 레이스 원피스", "slot": "outfit", "tier": 1, "cost": 26, "file": "assets/items/kwhite.webp", "box": [160.0, 318, 280, 177.1]}, {"id": "kgreen", "name": "그린 멜빵 원피스", "slot": "outfit", "tier": 1, "cost": 26, "file": "assets/items/kgreen.webp", "box": [160.0, 318, 280, 178.8]}, {"id": "kberet", "name": "빨간 베레모", "slot": "head", "tier": 1, "cost": 24, "file": "assets/items/kberet.webp", "box": [215, 8, 180, 103.0]}, {"id": "kblackbow", "name": "검정 리본", "slot": "head", "tier": 0, "cost": 12, "file": "assets/items/kblackbow.webp", "box": [335, 18, 95, 68.1]}, {"id": "kwhitebow", "name": "흰 리본", "slot": "head", "tier": 0, "cost": 12, "file": "assets/items/kwhitebow.webp", "box": [335, 18, 95, 68.1]}, {"id": "kpolice", "name": "경찰복", "slot": "outfit", "tier": 1, "cost": 28, "file": "assets/items/kpolice.webp", "box": [160.0, 318, 280, 211.4]}, {"id": "kpolicehat", "name": "경찰모", "slot": "head", "tier": 1, "cost": 26, "file": "assets/items/kpolicehat.webp", "box": [240.0, 19.6, 160, 95.4]}];
 var ROOM_ITEMS = [{"id": "wall1", "name": "분홍 줄무늬 벽지", "kind": "wallpaper", "tier": 0, "file": "assets/room/wall1.webp", "w": 114, "h": 88}, {"id": "wall2", "name": "하늘 구름 벽지", "kind": "wallpaper", "tier": 0, "file": "assets/room/wall2.webp", "w": 116, "h": 88}, {"id": "wall3", "name": "노랑 별 벽지", "kind": "wallpaper", "tier": 1, "file": "assets/room/wall3.webp", "w": 116, "h": 88}, {"id": "wall4", "name": "보라 달 벽지", "kind": "wallpaper", "tier": 1, "file": "assets/room/wall4.webp", "w": 116, "h": 88}, {"id": "floor1", "name": "분홍 체크 바닥", "kind": "floor", "tier": 0, "file": "assets/room/floor1.webp", "w": 110, "h": 51}, {"id": "floor2", "name": "나무 바닥", "kind": "floor", "tier": 0, "file": "assets/room/floor2.webp", "w": 132, "h": 99}, {"id": "floor3", "name": "하얀 대리석 바닥", "kind": "floor", "tier": 1, "file": "assets/room/floor3.webp", "w": 70, "h": 59}, {"id": "floor4", "name": "초록 다다미 바닥", "kind": "floor", "tier": 1, "file": "assets/room/floor4.webp", "w": 117, "h": 55}, {"id": "bed", "name": "하트 침대", "kind": "furn", "tier": 2, "file": "assets/room/bed.webp", "w": 156, "h": 151}, {"id": "sofa", "name": "구름 소파", "kind": "furn", "tier": 2, "file": "assets/room/sofa.webp", "w": 152, "h": 121}, {"id": "bookshelf", "name": "코끼리 책장", "kind": "furn", "tier": 2, "file": "assets/room/bookshelf.webp", "w": 117, "h": 168}, {"id": "desk", "name": "공부 책상", "kind": "furn", "tier": 2, "file": "assets/room/desk.webp", "w": 182, "h": 146}, {"id": "dresser", "name": "거울 서랍장", "kind": "furn", "tier": 2, "file": "assets/room/dresser.webp", "w": 113, "h": 151}, {"id": "armchair", "name": "하트 안락의자", "kind": "furn", "tier": 1, "file": "assets/room/armchair.webp", "w": 126, "h": 127}, {"id": "curtains", "name": "분홍 커튼", "kind": "wall", "tier": 1, "file": "assets/room/curtains.webp", "w": 149, "h": 115}, {"id": "window1", "name": "둥근 창문", "kind": "wall", "tier": 1, "file": "assets/room/window1.webp", "w": 104, "h": 100}, {"id": "window2", "name": "숲 창문", "kind": "wall", "tier": 0, "file": "assets/room/window2.webp", "w": 77, "h": 83}, {"id": "chandelier", "name": "리본 샹들리에", "kind": "wall", "tier": 1, "file": "assets/room/chandelier.webp", "w": 93, "h": 94}, {"id": "moonlight", "name": "달 구름 조명", "kind": "wall", "tier": 1, "file": "assets/room/moonlight.webp", "w": 96, "h": 79}, {"id": "mobile", "name": "별 모빌", "kind": "wall", "tier": 1, "file": "assets/room/mobile.webp", "w": 78, "h": 87}, {"id": "tablelamp", "name": "분홍 스탠드", "kind": "prop", "tier": 0, "file": "assets/room/tablelamp.webp", "w": 62, "h": 83}, {"id": "floorlamp", "name": "리본 장스탠드", "kind": "prop", "tier": 1, "file": "assets/room/floorlamp.webp", "w": 59, "h": 154}, {"id": "heartdeco", "name": "하트 장식", "kind": "wall", "tier": 0, "file": "assets/room/heartdeco.webp", "w": 58, "h": 73}, {"id": "frame1", "name": "하트 액자", "kind": "wall", "tier": 0, "file": "assets/room/frame1.webp", "w": 61, "h": 73}, {"id": "frame2", "name": "코끼리 액자", "kind": "wall", "tier": 0, "file": "assets/room/frame2.webp", "w": 76, "h": 76}, {"id": "frame3", "name": "구름 액자", "kind": "wall", "tier": 0, "file": "assets/room/frame3.webp", "w": 44, "h": 54}, {"id": "calendar", "name": "달력", "kind": "wall", "tier": 0, "file": "assets/room/calendar.webp", "w": 61, "h": 96}, {"id": "clock", "name": "리본 시계", "kind": "wall", "tier": 0, "file": "assets/room/clock.webp", "w": 62, "h": 80}, {"id": "wallshelf", "name": "코끼리 선반", "kind": "wall", "tier": 1, "file": "assets/room/wallshelf.webp", "w": 157, "h": 82}, {"id": "hangplant", "name": "걸이 화분", "kind": "wall", "tier": 0, "file": "assets/room/hangplant.webp", "w": 51, "h": 98}, {"id": "plantpot", "name": "리본 화분", "kind": "prop", "tier": 0, "file": "assets/room/plantpot.webp", "w": 73, "h": 101}, {"id": "flowershelf", "name": "꽃 선반", "kind": "wall", "tier": 1, "file": "assets/room/flowershelf.webp", "w": 122, "h": 71}, {"id": "bluerug", "name": "파란 꽃 러그", "kind": "rug", "tier": 1, "file": "assets/room/bluerug.webp", "w": 172, "h": 81}, {"id": "tulip", "name": "튤립 화병", "kind": "prop", "tier": 0, "file": "assets/room/tulip.webp", "w": 61, "h": 115}, {"id": "bigplant", "name": "큰 화분", "kind": "prop", "tier": 1, "file": "assets/room/bigplant.webp", "w": 80, "h": 121}, {"id": "flowerstool", "name": "꽃 테이블", "kind": "furn", "tier": 1, "file": "assets/room/flowerstool.webp", "w": 98, "h": 70}, {"id": "pinkstool", "name": "분홍 의자", "kind": "furn", "tier": 0, "file": "assets/room/pinkstool.webp", "w": 62, "h": 68}, {"id": "pinkbox", "name": "하트 상자", "kind": "prop", "tier": 0, "file": "assets/room/pinkbox.webp", "w": 67, "h": 57}, {"id": "teddy", "name": "곰돌이 인형", "kind": "prop", "tier": 0, "file": "assets/room/teddy.webp", "w": 65, "h": 74}, {"id": "cloudrug", "name": "구름 러그", "kind": "rug", "tier": 0, "file": "assets/room/cloudrug.webp", "w": 77, "h": 48}, {"id": "quilt", "name": "누빔 하트 러그", "kind": "rug", "tier": 0, "file": "assets/room/quilt.webp", "w": 64, "h": 53}, {"id": "sidetable", "name": "하트 협탁", "kind": "furn", "tier": 0, "file": "assets/room/sidetable.webp", "w": 52, "h": 57}, {"id": "ottoman", "name": "분홍 오토만", "kind": "furn", "tier": 0, "file": "assets/room/ottoman.webp", "w": 56, "h": 53}, {"id": "globe", "name": "지구본", "kind": "prop", "tier": 0, "file": "assets/room/globe.webp", "w": 48, "h": 61}, {"id": "mirror", "name": "스탠드 거울", "kind": "prop", "tier": 0, "file": "assets/room/mirror.webp", "w": 52, "h": 58}, {"id": "books", "name": "책 더미", "kind": "prop", "tier": 0, "file": "assets/room/books.webp", "w": 52, "h": 46}, {"id": "boxes", "name": "선물 상자", "kind": "prop", "tier": 0, "file": "assets/room/boxes.webp", "w": 53, "h": 61}, {"id": "lantern", "name": "작은 랜턴", "kind": "prop", "tier": 0, "file": "assets/room/lantern.webp", "w": 34, "h": 37}];
 var TIERS = [
   {name:'보통',     w:60, dup:4,  buy:true},
